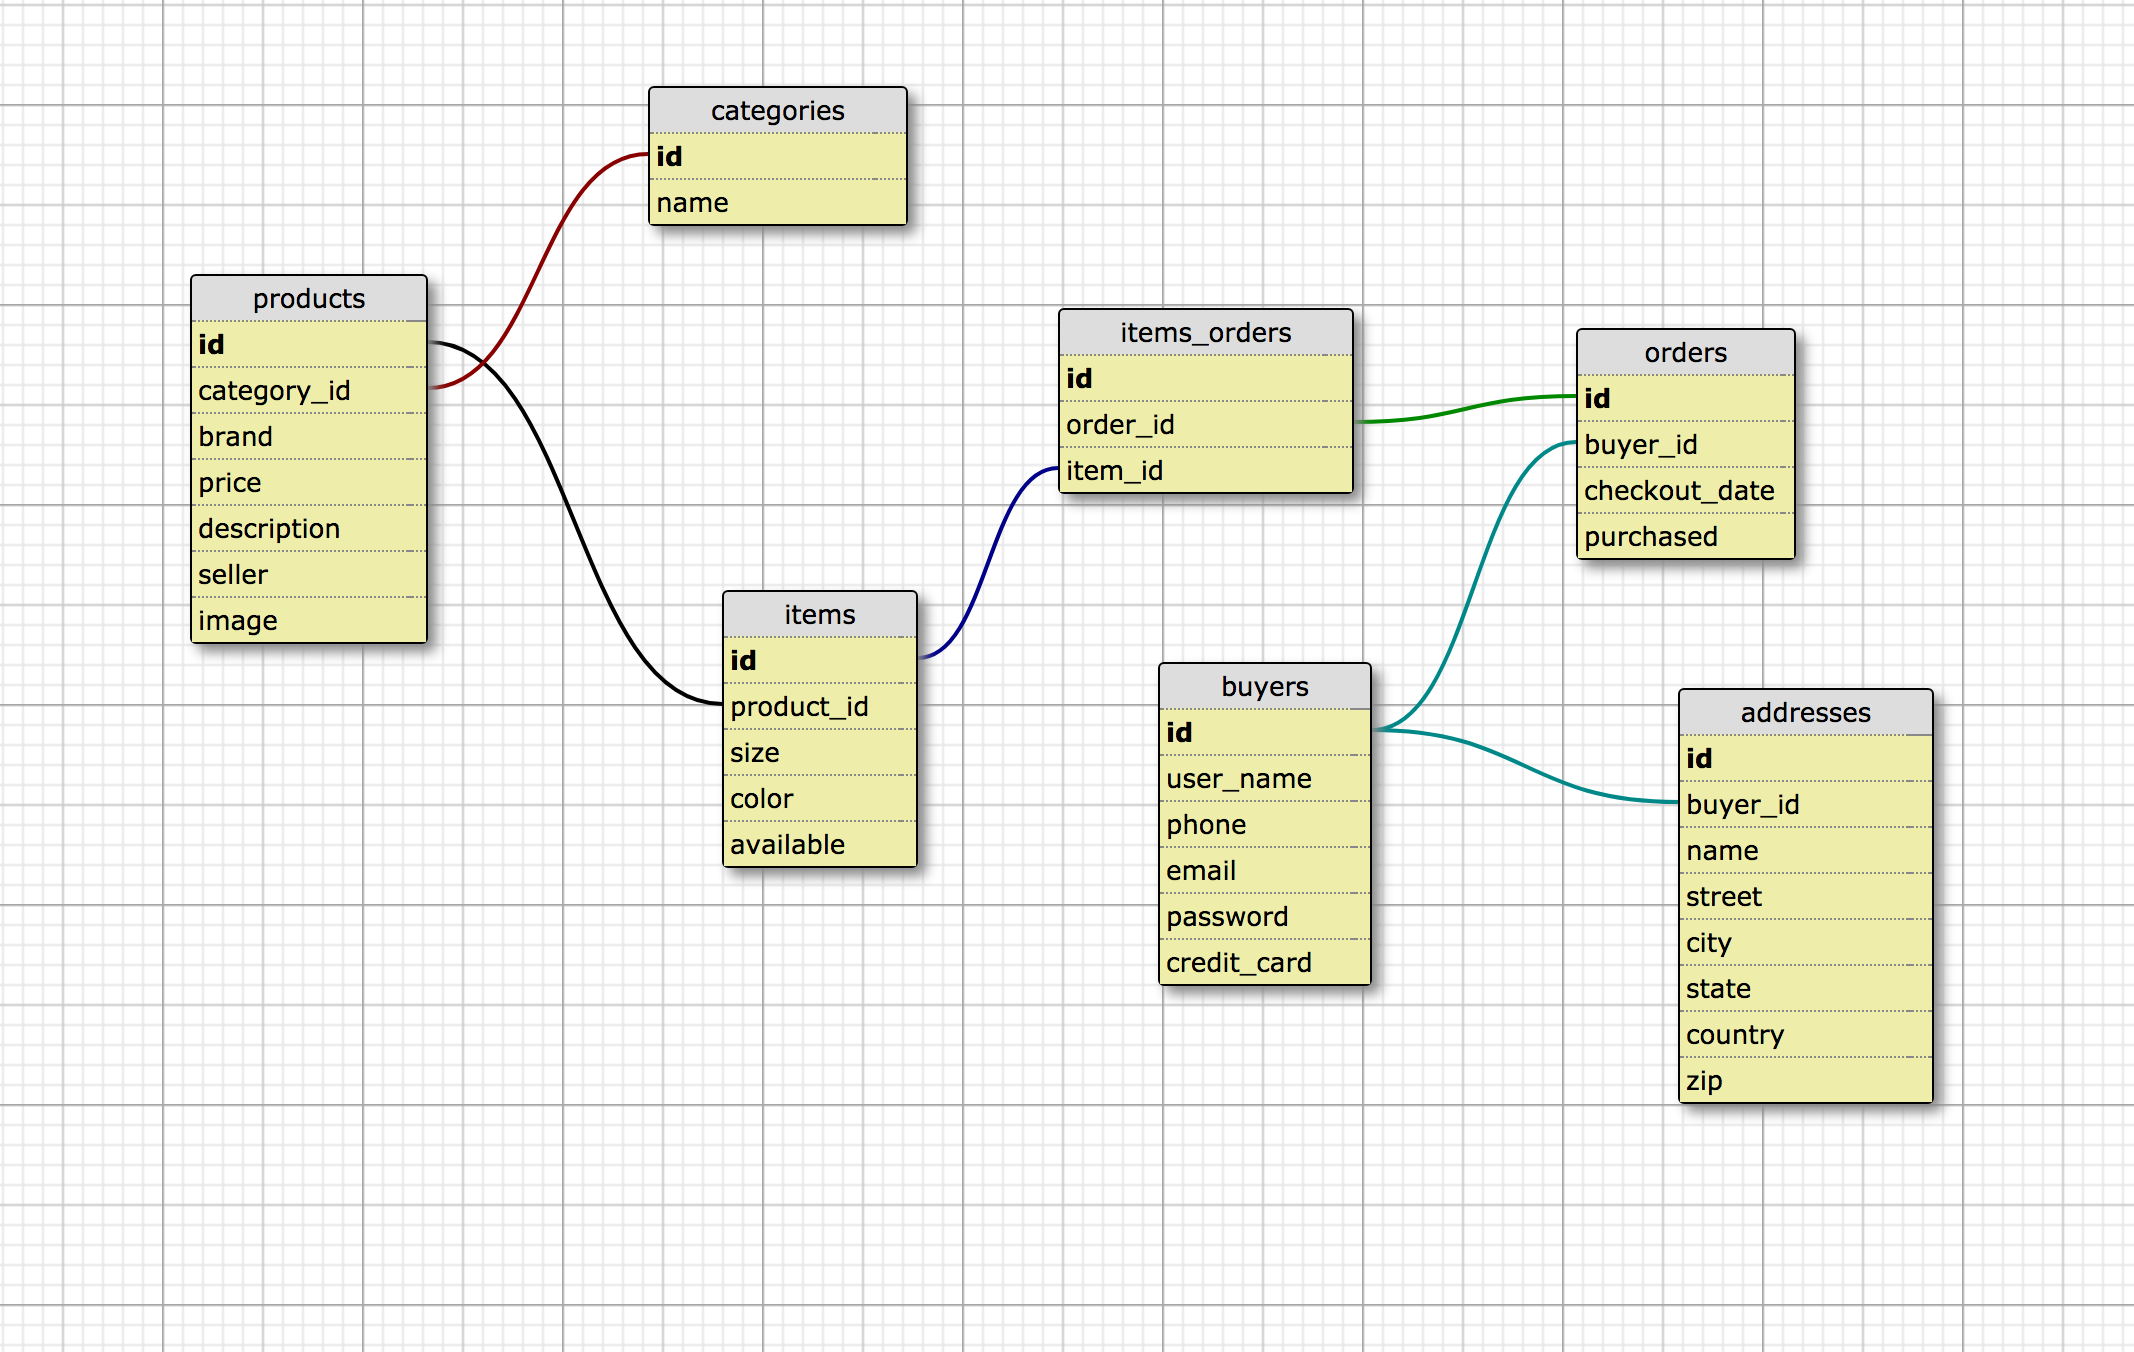
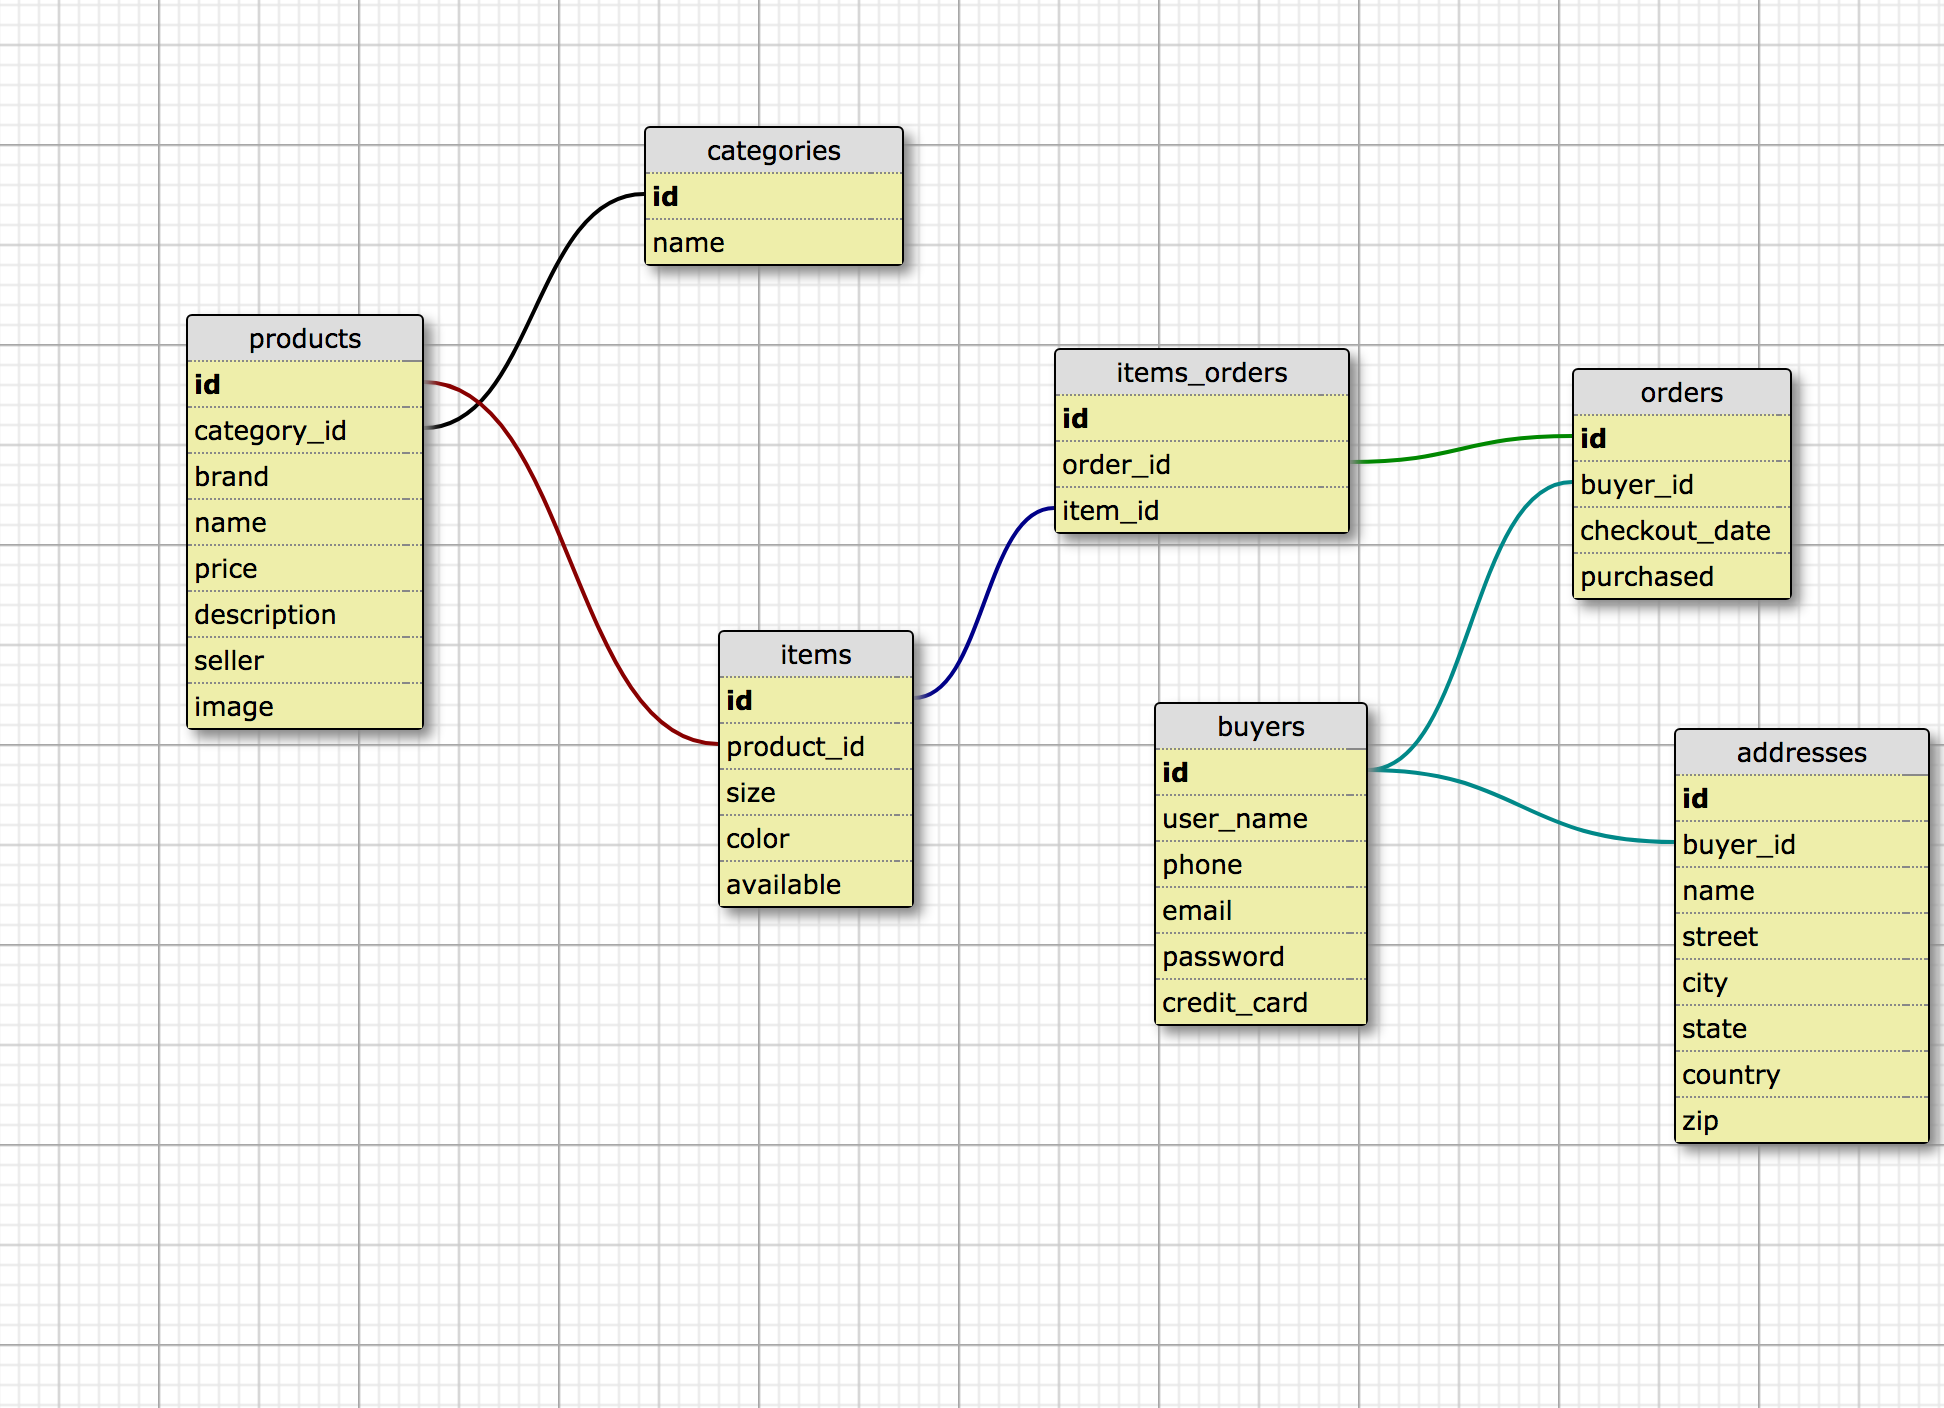
update readme.md to add DB creation string and add name field to product in schema.png

diff --git a/README.md b/README.md
@@ -51,14 +51,71 @@ _This site uses a SQL database to track the purcashes of clothing items in an on
 * This website will be hosted on GitHub
 * https://github.com/parulmishra/OnlineShop
 
-<!-- ##### Database Creation/Setup - Commands
-1. CREATE DATABASE online_shop;
-2. USE band_tracker;
-3. CREATE TABLE bands (id serial PRIMARY KEY, name VARCHAR (255));
-4. CREATE TABLE venues (id serial PRIMARY KEY, name VARCHAR (255));
-5. CREATE TABLE bands_venues (id serial PRIMARY KEY, band_id int, venue_id int);
+##### Database Creation/Setup - Commands
+CREATE DATABASE IF NOT EXISTS `online_shop` DEFAULT CHARACTER SET utf8 COLLATE utf8_general_ci;
+USE `online_shop`;
 
-* The DB band_tracker_test is used for MST Unit testing -->
+CREATE TABLE `addresses` (
+  `id` int(11) NOT NULL,
+  `buyer_id` int(11) NOT NULL,
+  `name` varchar(255) NOT NULL,
+  `street` varchar(255) NOT NULL,
+  `city` varchar(255) NOT NULL,
+  `state` varchar(255) NOT NULL,
+  `country` varchar(255) NOT NULL,
+  `zip` varchar(10) NOT NULL
+) ENGINE=InnoDB DEFAULT CHARSET=utf8;
+
+CREATE TABLE `buyers` (
+  `id` int(11) NOT NULL,
+  `user_name` varchar(255) NOT NULL,
+  `phone` varchar(10) NOT NULL,
+  `email` varchar(100) NOT NULL,
+  `password` varchar(10) NOT NULL,
+  `credit_card` varchar(16) NOT NULL
+) ENGINE=InnoDB DEFAULT CHARSET=utf8;
+
+
+CREATE TABLE `categories` (
+  `id` int(11) NOT NULL,
+  `name` varchar(255) NOT NULL
+) ENGINE=InnoDB DEFAULT CHARSET=utf8;
+
+
+CREATE TABLE `items` (
+  `id` int(11) NOT NULL,
+  `product_id` int(11) NOT NULL,
+  `size` varchar(255) NOT NULL,
+  `color` varchar(255) NOT NULL,
+  `available` tinyint(1) NOT NULL
+) ENGINE=InnoDB DEFAULT CHARSET=utf8;
+
+CREATE TABLE `items_orders` (
+  `id` int(11) NOT NULL,
+  `order_id` int(11) NOT NULL,
+  `item_id` int(11) NOT NULL
+) ENGINE=InnoDB DEFAULT CHARSET=utf8 ROW_FORMAT=COMPACT;
+
+
+CREATE TABLE `orders` (
+  `id` int(11) NOT NULL,
+  `buyer_id` int(11) NOT NULL,
+  `checkout_date` datetime NOT NULL,
+  `purchased` tinyint(1) NOT NULL
+) ENGINE=InnoDB DEFAULT CHARSET=utf8;
+
+CREATE TABLE `products` (
+  `id` int(11) NOT NULL,
+  `category_id` int(11) NOT NULL,
+  `brand` varchar(255) NOT NULL,
+  `name` varchar(255) NOT NULL,
+  `price` double(11,2) NOT NULL,
+  `description` text NOT NULL,
+  `seller` varchar(255) NOT NULL,
+  `image` varchar(255) NOT NULL
+) ENGINE=InnoDB DEFAULT CHARSET=utf8;
+
+* The DB online_shop_test is used for MST Unit testing
 
 ## Technologies Used
 
